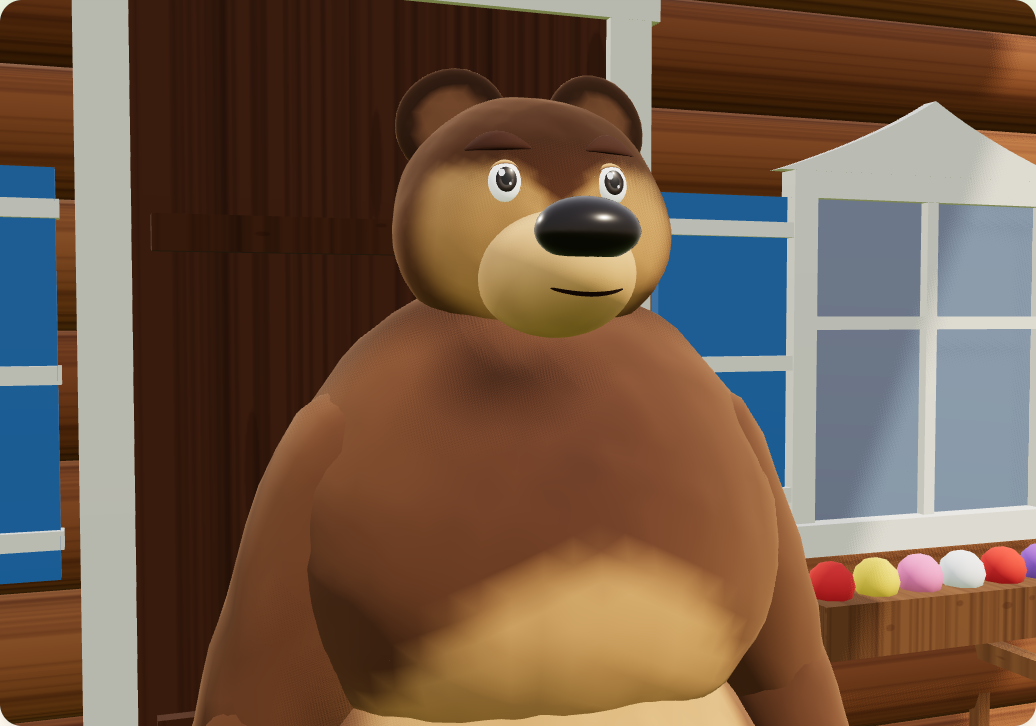
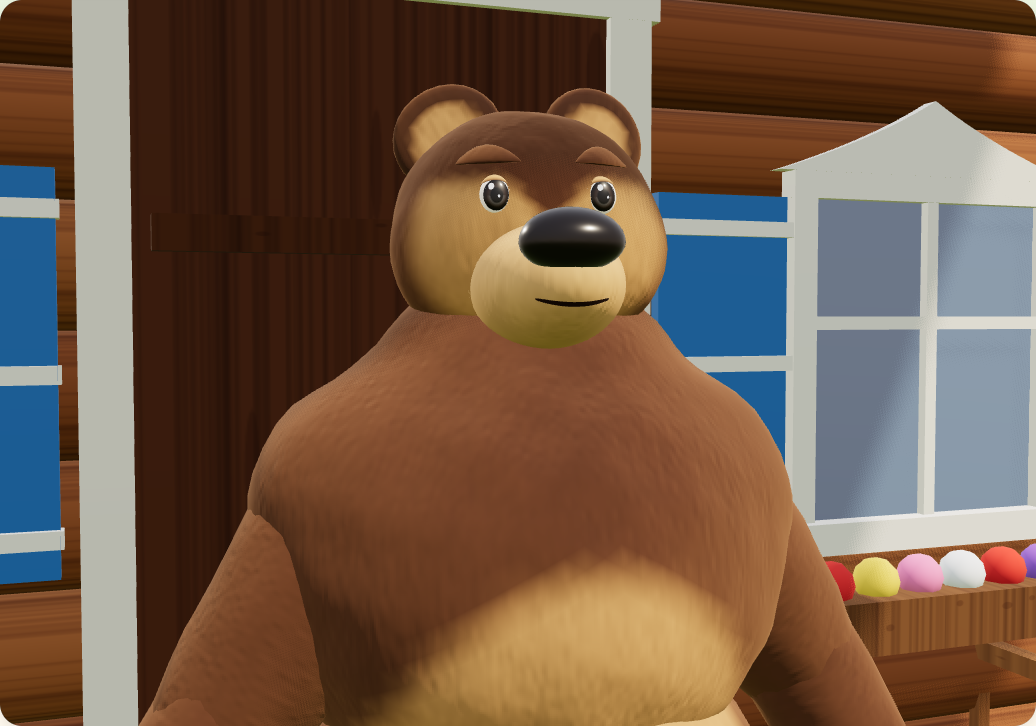
app: confirm also guards unsubmitted edits; likeness pass 12 WIP; demo script D6 note
Claude-Session: https://claude.ai/code/session_016JFz9MVdai9o8C3gK4PmVv

diff --git a/src/engine/characters/face.ts b/src/engine/characters/face.ts
@@ -176,6 +176,8 @@ function surfNormal(s: FaceSurface, x: number, y: number): THREE.Vector3 {
   return new THREE.Vector3(-dzdx, -dzdy, 1).normalize();
 }
 
+/** upper-lid shell radius / sclera radius (just above the highlights at 1.035; larger reads as bulging lids) */
+const LID_R = 1.045;
 const U_SEG = 28;
 const V_SEG = 8;
 
@@ -279,7 +281,15 @@ export function buildFace(cfg: FaceConfig, mats: MaterialSet): FaceRig {
       hg.deleteAttribute("uv");
       const q = new THREE.Quaternion().setFromUnitVectors(new THREE.Vector3(0, 0, 1), d);
       hg.applyQuaternion(q);
-      hg.translate(d.x * E.r * 1.035, d.y * E.r * 1.035, d.z * E.r * 1.035);
+      hg.translate(d.x * E.r * 1.03, d.y * E.r * 1.03, d.z * E.r * 1.03);
+      // wrap the disc onto the sphere (r 1.03: above the iris cap at 1.012, below the lid shell) so its rim
+      // never pokes through a closing lid
+      const hp = hg.getAttribute("position") as THREE.BufferAttribute;
+      const tv = new THREE.Vector3();
+      for (let i = 0; i < hp.count; i++) {
+        tv.fromBufferAttribute(hp, i).setLength(E.r * 1.03);
+        hp.setXYZ(i, tv.x, tv.y, tv.z);
+      }
       hg.applyMatrix4(g.matrix);
       hiGeoms.push(hg);
     };
@@ -290,11 +300,11 @@ export function buildFace(cfg: FaceConfig, mats: MaterialSet): FaceRig {
     const lid = new THREE.Object3D();
     lid.name = "lid";
     g.add(lid);
-    const lg = new THREE.SphereGeometry(E.r * 1.07, 30, 9, 0, Math.PI * 2, 0, E.lidCap);
+    const lg = new THREE.SphereGeometry(E.r * LID_R, 30, 9, 0, Math.PI * 2, 0, E.lidCap);
     lg.deleteAttribute("uv");
     const capCos = Math.cos(E.lidCap);
     paintVertices(lg, (p, out) => {
-      const c = p.y / (E.r * 1.07); // cos(polar)
+      const c = p.y / (E.r * LID_R); // cos(polar)
       const lash = smoothstep(capCos + 0.22, capCos + 0.02, c);
       out.copy(lidColor).lerp(lashColor, lash);
     });
@@ -307,7 +317,7 @@ export function buildFace(cfg: FaceConfig, mats: MaterialSet): FaceRig {
       fl.rotateZ(side === 1 ? 0.5 : -0.5);
       // positioned at the outer rim of the cap
       const ang = E.lidCap;
-      fl.translate(side * E.r * 1.07 * Math.sin(ang) * 0.95, E.r * 1.07 * Math.cos(ang) + E.r * 0.06, E.r * 0.25);
+      fl.translate(side * E.r * LID_R * Math.sin(ang) * 0.95, E.r * LID_R * Math.cos(ang) + E.r * 0.06, E.r * 0.25);
       paintVertices(fl, (_p, out) => out.copy(lashColor));
       lidGeom = mergeSame([lg, fl]);
     }
@@ -489,7 +499,7 @@ export function buildFace(cfg: FaceConfig, mats: MaterialSet): FaceRig {
       b.g.position.y = y;
       // keep the brow on the surface when it travels
       b.g.position.z = surfZ(E.surface, b.x, y) - surfZ(E.surface, b.x, b.y);
-      b.g.rotation.set(0, 0, -b.side * cur.tilt * 0.35);
+      b.g.rotation.set(0, 0, -b.side * cur.tilt * 0.5);
     }
   }
 

diff --git a/src/engine/characters/masha.ts b/src/engine/characters/masha.ts
@@ -213,7 +213,7 @@ export function buildMasha(): CharacterRig {
       const skinR = headR(dd) * (0.985 + 0.027 * smoothstep(1.0, 1.05, k));
       let r = skinR + (Rk - skinR) * tuck + 0.011 * roll;
       // flatter crown, soft fullness low over the ears
-      r += -0.012 * bump(dd, dir(0, 1, -0.1), 0.55) + 0.01 * (bump(dd, dir(1, -0.6, 0.0), 0.6) + bump(dd, dir(-1, -0.6, 0.0), 0.6));
+      r += -0.012 * bump(dd, dir(0, 1, -0.1), 0.55) - 0.012 * bump(dd, dir(0, 0.1, -1), 0.7) + 0.008 * (bump(dd, dir(1, -0.6, 0.0), 0.6) + bump(dd, dir(-1, -0.6, 0.0), 0.6));
       out.copy(dd).multiplyScalar(r).add(hc);
       // forward peak over the forehead
       const peak = Math.exp(-((ax / 0.4) ** 2)) * Math.exp(-(((ay - (H.openTop + 0.18)) / 0.22) ** 2));
@@ -225,7 +225,7 @@ export function buildMasha(): CharacterRig {
         const w = smoothstep(A * 0.85, A * 1.45, Math.abs(ax)) * smoothstep(0, 0.3, t);
         const bh = Rk * (1.0 + 0.18 * t) * Math.sqrt(Math.max(0, 1 - Math.pow(t, 8)));
         const backness = 0.5 - 0.5 * Math.cos(ax); // the cape comes to a soft point at the back
-        const drop = t * L.head.capeDrop * (0.9 + 0.25 * backness);
+        const drop = t * L.head.capeDrop * (0.95 + 0.1 * backness);
         const bell = new THREE.Vector3(hc.x + Math.sin(ax) * bh * 1.04, hc.y - 0.01 - drop, hc.z + Math.cos(ax) * bh * 0.9);
         out.lerp(bell, w);
       }

diff --git a/scripts/likenessShots.ts b/scripts/likenessShots.ts
@@ -23,12 +23,18 @@ const apps = args.flatMap((a, i) => (a === "--app" && args[i + 1] ? [args[i + 1]
 const stages = args.flatMap((a, i) => (a === "--stage" && args[i + 1] ? [args[i + 1]] : []));
 const base = `http://127.0.0.1:${PORT}/tools/likeness.html`;
 
-const SHOTS: Array<{ name: string; query: string }> = [
-  { name: "front", query: "angle=front" },
-  { name: "three", query: "angle=three&emotion=happy" },
-  { name: "face", query: "angle=face&emotion=happy" },
-  { name: "silhouette", query: "angle=front&sil=1" },
-];
+const SHOTS: Array<{ name: string; query: string }> = args.includes("--faces")
+  ? // face sheet: every viseme + a few emotions, close-up (spec §7.3 face rig check)
+    [
+      ...["rest", "open_small", "open_wide", "o", "e", "frown", "grin"].map((v) => ({ name: `viseme-${v}`, query: `angle=face&viseme=${v}` })),
+      ...["surprised", "sad", "angry", "sleepy", "mischievous", "scared"].map((e) => ({ name: `emotion-${e}`, query: `angle=face&emotion=${e}` })),
+    ]
+  : [
+      { name: "front", query: "angle=front" },
+      { name: "three", query: "angle=three&emotion=happy" },
+      { name: "face", query: "angle=face&emotion=happy" },
+      { name: "silhouette", query: "angle=front&sil=1" },
+    ];
 
 async function up(): Promise<boolean> {
   try {

diff --git a/src/app/store.ts b/src/app/store.ts
@@ -473,7 +473,9 @@ class Store {
 
   /** true when the story has paragraphs the player wrote (not just an unchanged example) */
   hasOwnWriting(): boolean {
-    return this.state.paragraphs.some((p) => p.text.trim() && p.versions[p.current]?.source !== "fixture");
+    return this.state.paragraphs.some(
+      (p) => p.text.trim() && (p.versions[p.current]?.source !== "fixture" || normalizeText(p.text) !== normalizeText(p.versions[p.current]?.text ?? "")),
+    );
   }
 
   loadFixtureById(id: FixtureEpisode["id"]): void {

diff --git a/docs/DEMO_SCRIPT.md b/docs/DEMO_SCRIPT.md
@@ -17,7 +17,7 @@
 | 3:40 | **D5** — economics at internet scale | Drawer → *Economics*. Leave defaults (10M users × 10 paragraphs/day). | "Per paragraph: diffusion video vs our prototype vs a small trained model. The plan is a few KB instead of megabytes of video, and rendering costs us nothing because it happens on the device." Point at plan size and FPS. |
 | 4:15 | **D8** — the data moat | Drawer → *Data view*. | "This is the paragraph as tracks: Masha, Bear, camera, dialogue, vocals, foley, music, light. Every episode you've produced already exists in this format — that's the training set nobody else has." |
 | 4:25 | **D9** — playable (bonus) | After a scene ends, click Masha or Bear on the stage. | "Tap a character and they react — computed on the device, no AI call." |
-| 4:35 | **D6** — international | Click **RU**, then **Примеры → Блинное утро**, play. | "Same engine, Russian UI, Russian lines and voice." |
+| 4:35 | **D6** — international | Click **RU**, then **Примеры → Блинное утро** (confirm "Начать заново?" with OK — it replaces the story you typed), play. | "Same engine, Russian UI, Russian lines and voice." |
 | 4:50 | Honesty + close | Drawer → *System layers*. | "We label every layer: live, stand-in or placeholder. Tonight Claude + a bible stand in for the model your archive trains. The funding builds that model." |
 
 ## If something goes wrong
